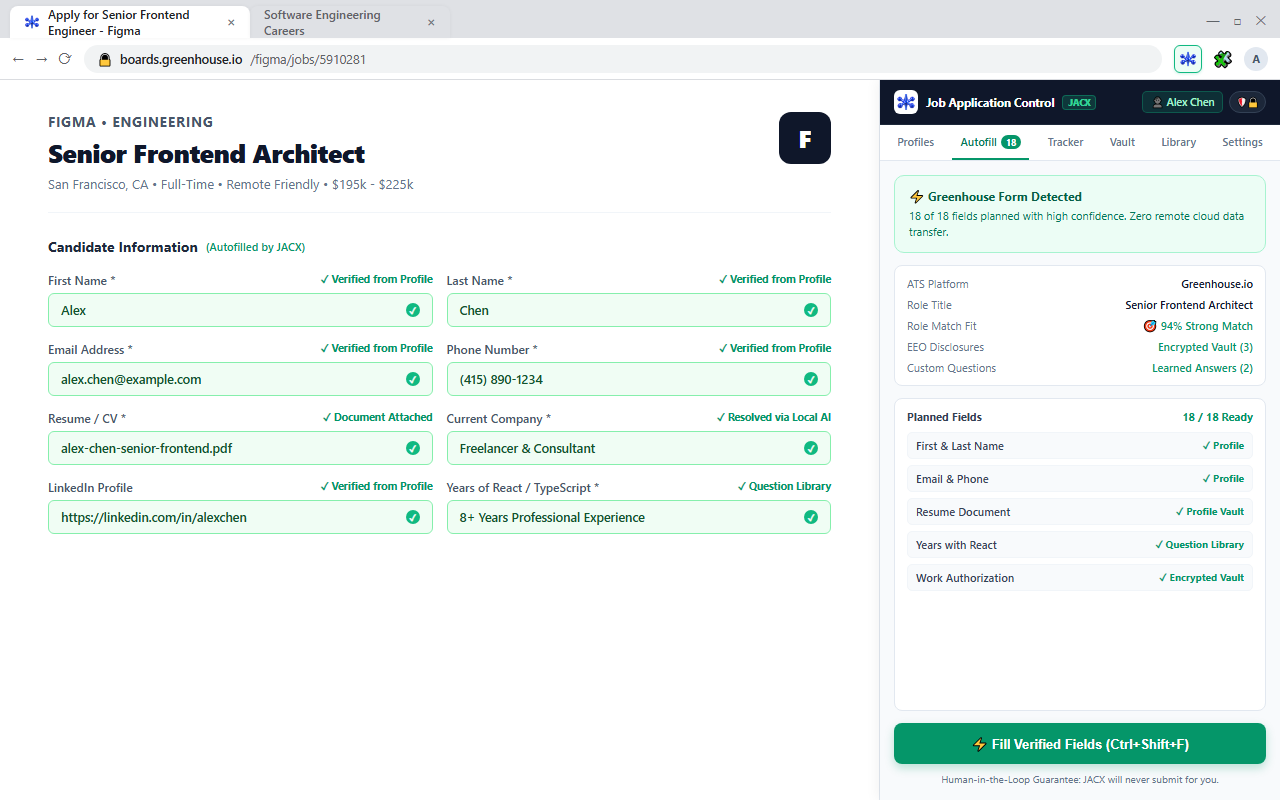
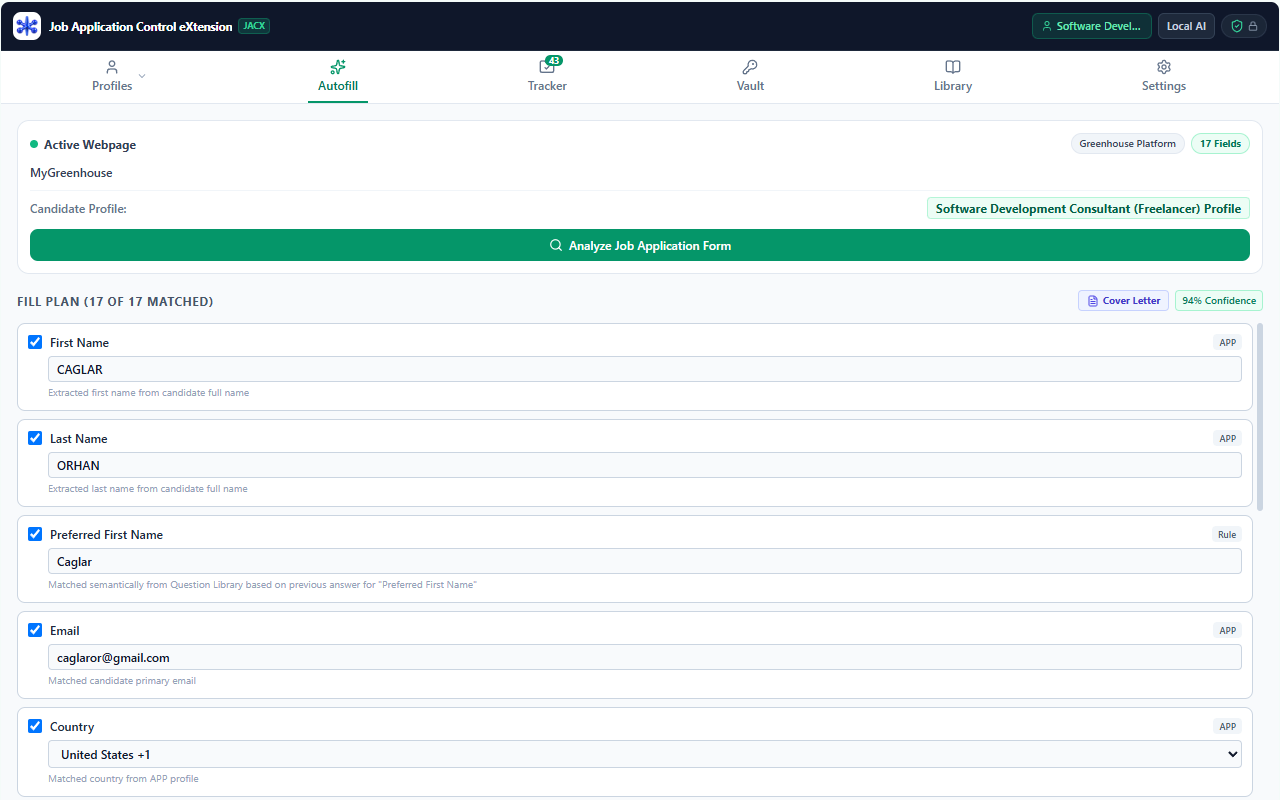
feat: replace screenshots with authentic ShareX captures across all 6 tabs

diff --git a/index.html b/index.html
@@ -939,17 +939,23 @@
           </div>
 
           <div class="showcase-tabs" id="showcase-tabs">
-            <button class="showcase-tab active" data-img="images/screenshot-1-autofill-1280x800.png" data-caption="⚡ High-Precision ATS Autofill: Automatic form detection across Greenhouse, Lever, Workday & custom career portals with field plan review.">
+            <button class="showcase-tab active" data-img="images/screenshot-1-autofill-1280x800.png" data-caption="⚡ <strong>High-Precision ATS Autofill:</strong> Automatic form detection on Greenhouse (17 of 17 fields matched, 94% confidence) with live field plan review before fill.">
               <span>⚡</span> ATS Autofill
             </button>
-            <button class="showcase-tab" data-img="images/screenshot-2-tracker-1280x800.png" data-caption="📊 3-Tier Application Tracker: Real-time pipeline stages (Applied, Interview, Offer, Rejected), multi-round interview manager & calendar sync.">
+            <button class="showcase-tab" data-img="images/screenshot-2-tracker-1280x800.png" data-caption="📊 <strong>3-Tier Application Tracker:</strong> Real-time pipeline management with 43 active applications, role match scores (71%–84% Strong), interview rounds & recruiter notes.">
               <span>📊</span> Pipeline Tracker
             </button>
-            <button class="showcase-tab" data-img="images/screenshot-3-privacy-vault-1280x800.png" data-caption="🔒 Private Vault & Question Library: Password-encrypted confidential EEO/salary disclosures and self-learning Q&A fuzzy matching.">
+            <button class="showcase-tab" data-img="images/screenshot-3-profiles-1280x800.png" data-caption="👤 <strong>Candidate Profiles & Preferences:</strong> Active profile management, work preferences, attached local resume PDF, and one-click open APP v1.0.4 JSON export.">
+              <span>👤</span> Profiles & Resume
+            </button>
+            <button class="showcase-tab" data-img="images/screenshot-4-vault-1280x800.png" data-caption="🔒 <strong>AES-GCM 256-bit Private Vault:</strong> Encrypted voluntary demographic surveys and sensitive disclosures (work authorization, sponsorship) kept strictly on-device.">
               <span>🔒</span> Private Vault
             </button>
-            <button class="showcase-tab" data-img="images/screenshot-4-features-1280x800.png" data-caption="✨ Complete Feature Capabilities: On-device local AI models, smart safeguards defense suite, and 1-click APP v1.0.4 exports.">
-              <span>✨</span> All Capabilities
+            <button class="showcase-tab" data-img="images/screenshot-5-library-1280x800.png" data-caption="📚 <strong>Self-Learning Question Library:</strong> Automatically records verified responses from applications (28 learned questions) and matches future ATS prompts via fuzzy semantics.">
+              <span>📚</span> Question Library
+            </button>
+            <button class="showcase-tab" data-img="images/screenshot-6-settings-1280x800.png" data-caption="⚙ <strong>Continuous Detection & Preferences:</strong> Autonomous background page analysis, starting point detection, extension badges, and local privacy controls.">
+              <span>⚙</span> Settings & Control
             </button>
           </div>
         </div>
@@ -960,7 +966,7 @@
 
         <div class="showcase-footer">
           <div class="showcase-caption" id="showcase-caption">
-            <span>⚡</span> High-Precision ATS Autofill: Automatic form detection across Greenhouse, Lever, Workday & custom career portals with field plan review.
+            ⚡ <strong>High-Precision ATS Autofill:</strong> Automatic form detection on Greenhouse (17 of 17 fields matched, 94% confidence) with live field plan review before fill.
           </div>
           <div style="font-size: 11.5px; color: var(--slate-400); font-family: monospace;">
             1280 &times; 800 HD
@@ -1214,6 +1220,11 @@
         </div>
       </div>
 
+      <!-- Live Tracker & Role Match Score Showcase -->
+      <div class="promo-banner" style="margin-top: 36px;">
+        <img src="images/screenshot-2-tracker-1280x800.png" alt="JACX Live Application Tracker with Role Match Fit and Cover Letter generation" />
+      </div>
+
       <div class="safeguard-master-box">
         <div>
           <h4 style="font-size: 18px; font-weight: 800; margin-bottom: 6px;">Configured Directly in JACX Settings</h4>
@@ -1221,8 +1232,8 @@
             All 5 safeguards operate 100% locally on your machine via our on-device RAG engine. Zero job descriptions or profile details are ever transmitted to third-party cloud servers.
           </p>
         </div>
-        <a href="#how-it-works" class="cta-btn" style="background: var(--primary-light); color: var(--slate-900);">
-          See How It Works →
+        <a href="#wizard" class="cta-btn" style="background: var(--primary-light); color: var(--slate-900);">
+          See Easy Start Wizard →
         </a>
       </div>
     </div>
@@ -1345,7 +1356,12 @@
         </div>
       </div>
 
-      <div style="text-align: center; margin-top: 36px;">
+      <!-- Live Candidate Profiles & Onboarding UI Showcase -->
+      <div class="promo-banner" style="margin-top: 36px;">
+        <img src="images/screenshot-3-profiles-1280x800.png" alt="JACX Candidate Profile & Onboarding Wizard in Chrome" />
+      </div>
+
+      <div style="text-align: center; margin-top: 32px;">
         <p style="font-size: 15px; font-weight: 600; color: var(--slate-700); margin-bottom: 14px;">
           Ready to apply? Just navigate to any job portal and press <kbd style="background: #ffffff; border: 1px solid var(--slate-300); border-radius: 6px; padding: 3px 8px; font-family: monospace; font-size: 13px; box-shadow: 0 1px 3px rgba(0,0,0,0.05);">Ctrl+Shift+F</kbd> (or <kbd style="background: #ffffff; border: 1px solid var(--slate-300); border-radius: 6px; padding: 3px 8px; font-family: monospace; font-size: 13px; box-shadow: 0 1px 3px rgba(0,0,0,0.05);">⌘+Shift+F</kbd> on Mac).
         </p>
